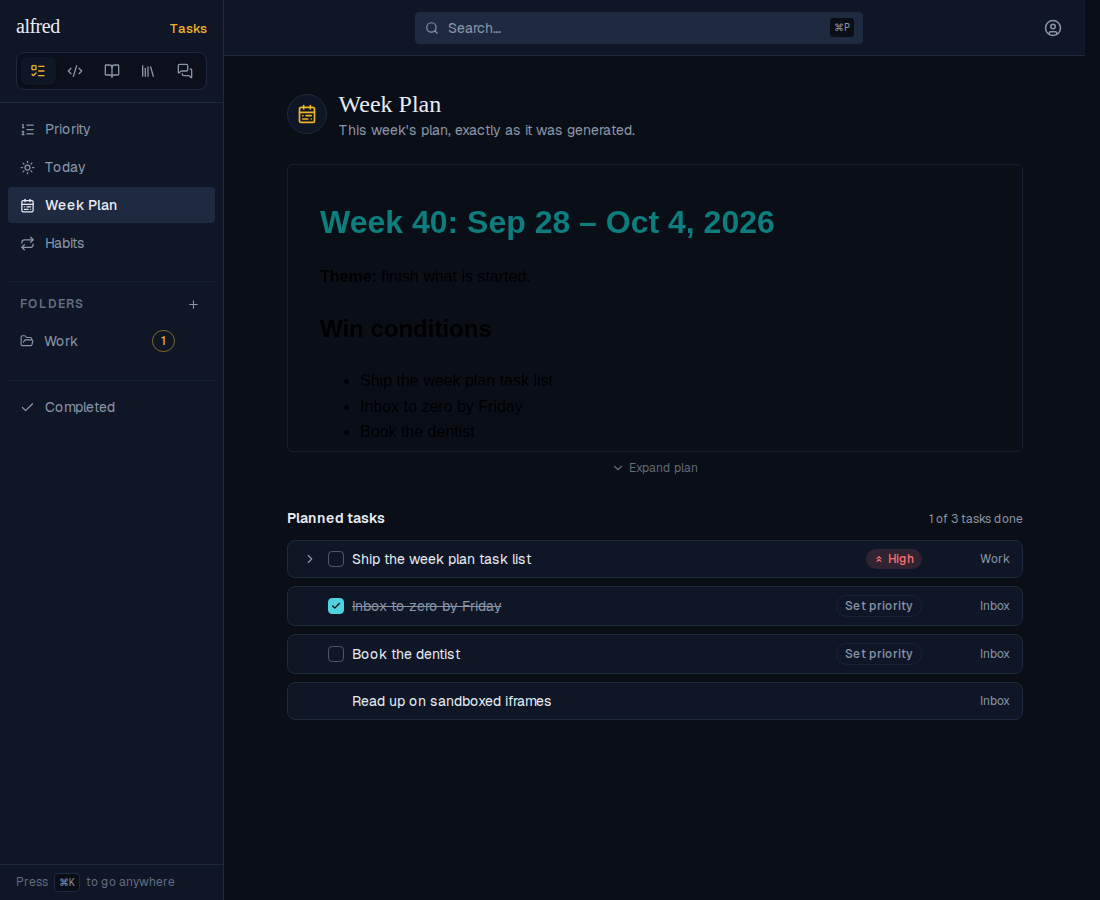
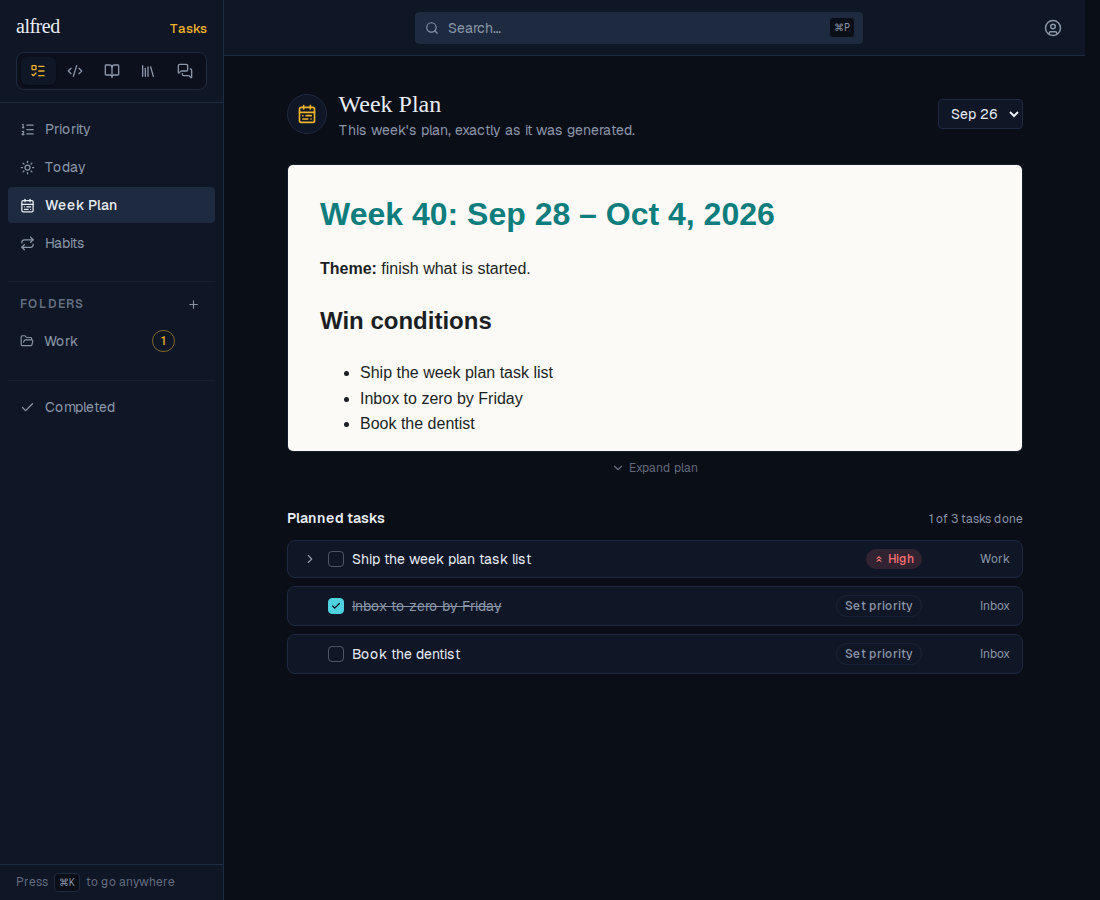
docs(demos): recapture the week plan demo across weeks, inbox and phone

Changed region(s): [[0.2473, 0.1244, 0.9273, 0.5289], [0.3091, 0.7467, 0.4945, 0.8089], [0.8964, 0.7778, 0.9273, 0.8089]]

diff --git a/docs/demos/week-plan-tasks/week-plan-tasks.md b/docs/demos/week-plan-tasks/week-plan-tasks.md
@@ -4,22 +4,38 @@ branch: claude/alf-235-week-plan-tasks
 
 # Week Plan: the plan's tasks under a short, expandable preview
 
-*2026-09-30T05:15:55.550Z*
+*2026-09-30T12:35:54.490Z*
 
-ALF-235. The Week Plan view used to be the plan document alone, filling the screen. Now it opens as a short preview with the items the weekly review created against that plan (items.weekly_plan_id) listed underneath: in plan order, with finished ones still shown (struck through) under an "N of M tasks done" tally. Rows are the same TriageRow the Today and By Priority views use, so you get a checkbox, subtasks behind a chevron, and the folder label. Captured with the Playwright mock harness at /plan.
+ALF-235. The Week Plan view used to be the plan document on its own, filling the screen. Now it opens as a **short preview** with the **tasks** the weekly review created against that plan (items.weekly_plan_id) listed underneath. The list is in plan order, keeps finished tasks (struck through), and sits under an "N of M tasks done" tally. Rows are the TriageRow that Today and By Priority use. Captured through the Playwright mock harness. The seed holds two archived plans, this week's items (four tasks, one of them a subtask pair's parent, plus a knowledge row), last week's two tasks, and one ordinary capture from no plan. The stand-in plan document pins a light background so it reads; the real one ships its own light/dark tokens.
 
-**1. Landing on /plan.** The document preview, then Planned tasks. The ordinary capture seeded alongside isn't in the list, and the knowledge row doesn't count toward the tally because it can't be ticked off.
+**1. Landing on /plan (latest week).** The document preview, then the three planned tasks in plan order. The one already done is struck through, and the tally reads 1 of 3. The knowledge row this plan also created is not listed: the list is tasks only.
 
 ![](week-plan-tasks-image-1.png)
 
-**2. Working the list.** Expanding the parent shows its subtasks. Ticking "Book the dentist" strikes it through in place and moves the tally to 2 of 3. It stays listed, because the list is a record of the week.
+**2. Expanding a planned task** shows the subtasks the review created under it.
 
 ![](week-plan-tasks-image-2.png)
 
-**3. Expand / Collapse (desktop).** The toggle grows the frame to 80vh and shrinks it back, animating the height.
+**3. Ticking "Book the dentist"** strikes it through in place, where it stays, and moves the tally to 2 of 3.
 
-![Expand plan grows the frame, Collapse plan shrinks it back](week-plan-tasks-video-3.gif)
+![](week-plan-tasks-image-3.png)
 
-**4. Phone.** The Expand toggle is hidden because the existing tap-to-full-screen layer already gives the document the whole screen. The task list sits under the preview as on desktop.
+**4. Picking last week (Sep 19)** swaps the document, and the list follows it: last week's two tasks, 1 of 2 done. Nothing from this week carries over.
 
 ![](week-plan-tasks-image-4.png)
+
+**5. The Inbox**, for contrast. The ordinary capture from no plan lives here and was in neither week's list. The knowledge row and last week's open task (both carrying the Week plan badge) are here too.
+
+![](week-plan-tasks-image-5.png)
+
+**6. Expand / Collapse (desktop).** The toggle animates the frame from the short preview up to 80vh and back.
+
+![Expand plan grows the frame, Collapse plan shrinks it back](week-plan-tasks-video-6.gif)
+
+**7. Phone.** The Expand toggle is hidden at this width; the existing Full screen chip is the way in. The task list sits under the preview as on desktop.
+
+![](week-plan-tasks-image-7.png)
+
+**8. Tapping the preview** still opens the plan full screen.
+
+![](week-plan-tasks-image-8.png)
